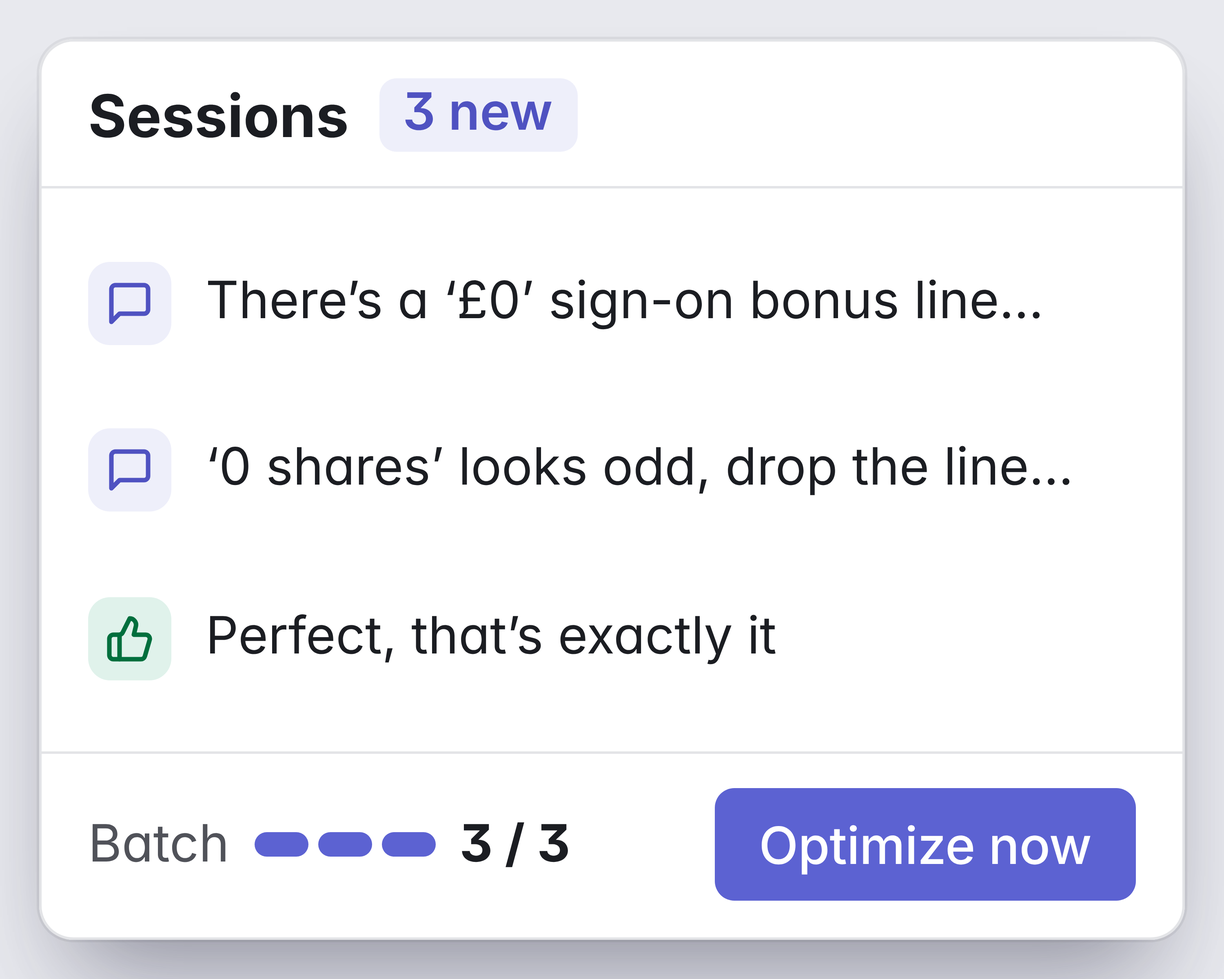
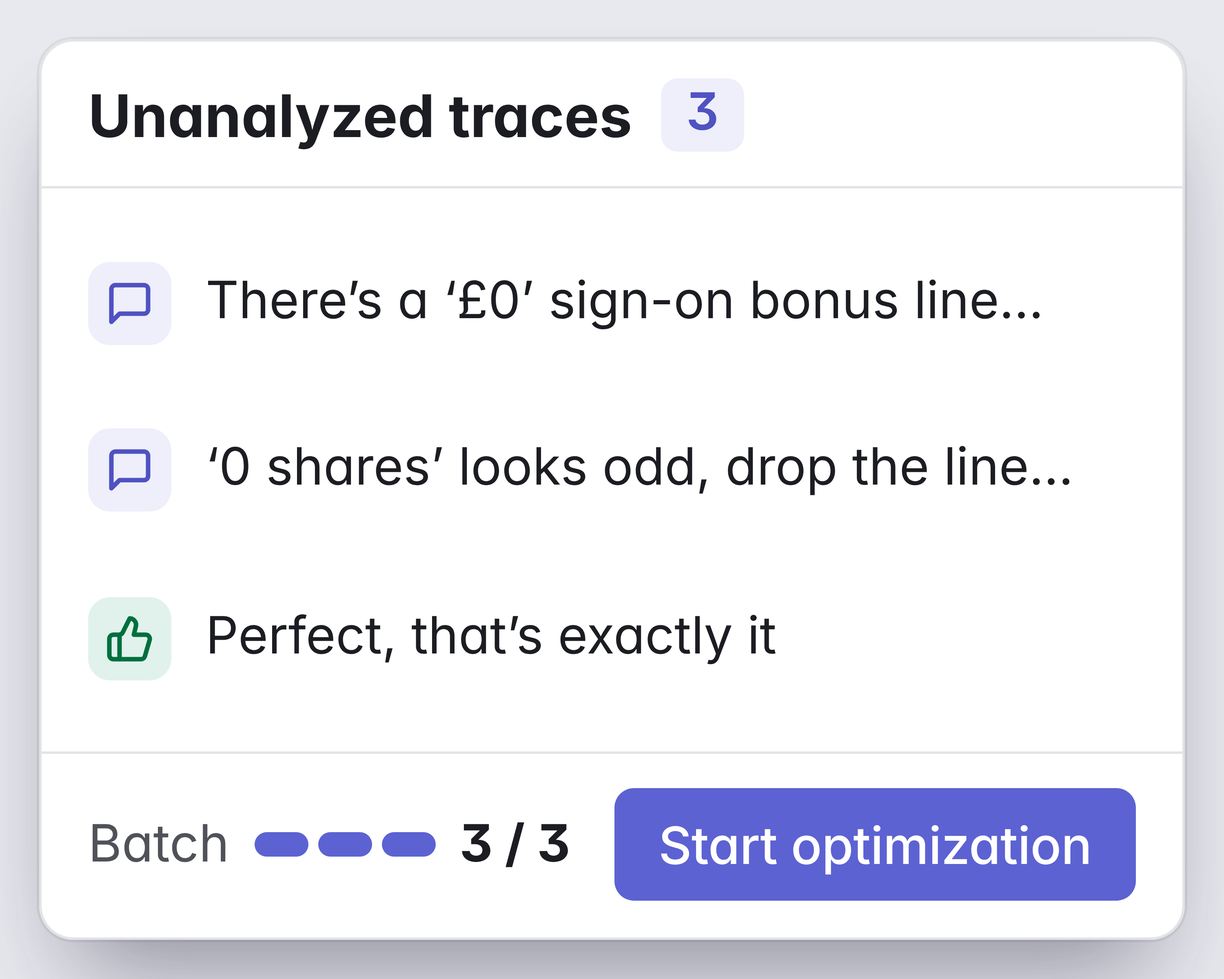
Poster: match the pipeline and workflow to the paper and the UI
Diagram: add the agent's local AGENTS.md copy fed by the fetch before
each session, drop the invented arrow from the published file to the
batch, and complete the node texts (unanalyzed traces and user-set batch
size, same reviewer prompt, judges asking follow-ups, the review report's
hypotheses and unresolved questions, the experience history's fields,
anchored edits, propose-only re-run on rejection). Use the paper's
survival rule. Workflow: use the dashboard's Start optimization and
auto-optimization, mention the verifier, and replace invented Compare and
Roll back actions with the Versions view's Set as current and New branch.

Changed region(s): [[0.496, 0.7812, 0.899, 0.9375], [0.062, 0.0938, 0.527, 0.1562], [0.558, 0.0938, 0.589, 0.1562]]

diff --git a/poster/index.html b/poster/index.html
@@ -236,7 +236,7 @@ h2 { font-family: var(--display); font-size: 18mm; line-height: 1.06; font-weigh
     </div>
   </div>
   <p class="cap"><b>Table I.</b> Task success, %, GPT-5.4-mini target model. <i class="sw hone"></i>Hone <i class="sw agent"></i>unoptimized agent <i class="sw opt"></i>skill optimizer (re-runs tasks with a verifier). The Pi agent is Hone's starting configuration; only AGENTS.md differs.</p>
-  <p class="cap"><b>Setup.</b> Each task ran once; Hone saw its trace and feedback from the answer key (“Expected … Got …”), never a re-run. OfficeQA: 200 tasks, 5 batches of 40; final file scored once.</p>
+  <p class="cap"><b>Setup.</b> Hone saw only traces and per-task feedback (“Expected … Got …”); no task re-run to score an edit. OfficeQA: 200 tasks, 5 batches of 40; final file scored once.</p>
 </section>
 
 
@@ -282,22 +282,23 @@ h2 { font-family: var(--display); font-size: 18mm; line-height: 1.06; font-weigh
     <rect x="166" y="6" width="100" height="114" rx="3" fill="#ffffff" stroke="#1a1c21" stroke-width="0.6" stroke-dasharray="3 2"/>
     <use href="#i-pkg" x="207" y="14" width="18" height="18" style="color:#565b66"/>
     <text x="216" y="50" font-size="11" font-weight="700" text-anchor="middle">Frozen batch</text>
-    <text x="216" y="67" font-size="9" fill="#565b66" text-anchor="middle">n traces,</text>
-    <text x="216" y="79" font-size="9" fill="#565b66" text-anchor="middle">fixed for</text>
-    <text x="216" y="91" font-size="9" fill="#565b66" text-anchor="middle">the whole run</text>
+    <text x="216" y="67" font-size="9" fill="#565b66" text-anchor="middle">unanalyzed traces,</text>
+    <text x="216" y="79" font-size="9" fill="#565b66" text-anchor="middle">size set by the user,</text>
+    <text x="216" y="91" font-size="9" fill="#565b66" text-anchor="middle">fixed for the run</text>
 
     <line x1="266" y1="62" x2="286" y2="62" stroke="#1a1c21" stroke-width="0.7" marker-end="url(#a-ink)"/>
     <rect x="288" y="30" width="90" height="64" rx="3" fill="#ffffff" stroke="#1a1c21" stroke-width="0.7"/>
     <use href="#i-code" x="295" y="36" width="11" height="11" style="color:#565b66"/>
-    <text x="333" y="60" font-size="10.5" font-weight="700" text-anchor="middle">Evidence</text>
-    <text x="333" y="73" font-size="10.5" font-weight="700" text-anchor="middle">compiler</text>
-    <text x="333" y="88" font-size="9" fill="#565b66" text-anchor="middle">deterministic</text>
+    <text x="333" y="56" font-size="10.5" font-weight="700" text-anchor="middle">Evidence</text>
+    <text x="333" y="68" font-size="10.5" font-weight="700" text-anchor="middle">compiler</text>
+    <text x="333" y="80" font-size="9" fill="#565b66" text-anchor="middle">deterministic,</text>
+    <text x="333" y="90" font-size="9" fill="#565b66" text-anchor="middle">tool-call signals</text>
     <use href="#mine" x="378" y="30"/><text x="378" y="33.45" font-size="9.6" font-weight="700" fill="#fff" text-anchor="middle">1</text>
 
     <!-- ===== REVIEW ===== -->
     <rect x="394" y="0" width="268" height="140" rx="5" fill="#e2e5fb" stroke="#3540a6" stroke-width="0.8"/>
     <text x="405" y="17" font-size="11" font-weight="700" fill="#3540a6">Review</text>
-    <text x="458" y="17" font-size="9" fill="#3540a6">3 reviewers, different LLMs</text>
+    <text x="458" y="17" font-size="9" fill="#3540a6">3 reviewers, different LLMs, same prompt</text>
 
     <line x1="378" y1="62" x2="399" y2="62" stroke="#1a1c21" stroke-width="0.7"/>
     <path d="M399 39 V109" fill="none" stroke="#1a1c21" stroke-width="0.7"/>
@@ -327,18 +328,19 @@ h2 { font-family: var(--display); font-size: 18mm; line-height: 1.06; font-weigh
     <use href="#i-scale" x="593" y="32" width="16" height="16" style="color:#3540a6"/>
     <text x="601" y="63" font-size="11" font-weight="700" text-anchor="middle" fill="#1f2b55">Review judge</text>
     <text x="601" y="80" font-size="9" text-anchor="middle" fill="#565b66">cross-examines,</text>
-    <text x="601" y="92" font-size="9" text-anchor="middle" fill="#565b66">writes the</text>
-    <text x="601" y="104" font-size="9" text-anchor="middle" fill="#565b66">consensus</text>
+    <text x="601" y="92" font-size="9" text-anchor="middle" fill="#565b66">asks follow-ups,</text>
+    <text x="601" y="104" font-size="9" text-anchor="middle" fill="#565b66">writes consensus</text>
     <use href="#mine" x="654" y="26"/><text x="654" y="29.45" font-size="9.6" font-weight="700" fill="#fff" text-anchor="middle">3</text>
     <text x="405" y="136" font-size="9" font-style="italic" fill="#3540a6">↔ the judge re-queries the reviewers</text>
 
     <line x1="654" y1="74" x2="683" y2="74" stroke="#1a1c21" stroke-width="0.7" marker-end="url(#a-ink)"/>
     <rect x="685" y="34" width="135" height="80" rx="3" fill="#fff" stroke="#3540a6" stroke-width="1.1"/>
     <use href="#i-file" x="694" y="43" width="13" height="13" style="color:#3540a6"/>
-    <text x="712" y="54" font-size="11" font-weight="700" fill="#1f2b55">Consensus review</text>
-    <text x="694" y="74" font-size="9" fill="#565b66">findings, confidence,</text>
-    <text x="694" y="87" font-size="9" fill="#565b66">linked traces,</text>
-    <text x="694" y="100" font-size="9" fill="#565b66">open questions</text>
+    <text x="712" y="52" font-size="11" font-weight="700" fill="#1f2b55">Review report</text>
+    <text x="694" y="68" font-size="9" fill="#565b66">findings, hypotheses</text>
+    <text x="694" y="80" font-size="9" fill="#565b66">with confidence,</text>
+    <text x="694" y="92" font-size="9" fill="#565b66">linked traces,</text>
+    <text x="694" y="104" font-size="9" fill="#565b66">unresolved questions</text>
 
     <text x="746" y="148" font-size="9" fill="#565b66" text-anchor="end">both stages run as</text>
     <text x="746" y="160" font-size="9" fill="#565b66" text-anchor="end">sandboxed jobs</text>
@@ -375,23 +377,24 @@ h2 { font-family: var(--display); font-size: 18mm; line-height: 1.06; font-weigh
     <use href="#i-scale" x="449" y="203" width="16" height="16" style="color:#3540a6"/>
     <text x="457" y="233" font-size="11" font-weight="700" text-anchor="middle" fill="#1f2b55">Propose judge</text>
     <text x="457" y="250" font-size="9" text-anchor="middle" fill="#565b66">cross-examines,</text>
-    <text x="457" y="262" font-size="9" text-anchor="middle" fill="#565b66">fuses one</text>
-    <text x="457" y="274" font-size="9" text-anchor="middle" fill="#565b66">edit set</text>
+    <text x="457" y="262" font-size="9" text-anchor="middle" fill="#565b66">asks follow-ups,</text>
+    <text x="457" y="274" font-size="9" text-anchor="middle" fill="#565b66">fuses one edit set</text>
     <use href="#mine" x="404" y="198"/><text x="404" y="201.45" font-size="9.6" font-weight="700" fill="#fff" text-anchor="middle">3</text>
 
     <line x1="457" y1="286" x2="457" y2="292" stroke="#1a1c21" stroke-width="0.7" marker-end="url(#a-ink)"/>
     <rect x="404" y="293" width="246" height="23" rx="3" fill="#fff" stroke="#3540a6" stroke-width="1.1"/>
     <use href="#i-file" x="411" y="298.5" width="12" height="12" style="color:#3540a6"/>
     <text x="428" y="308.3" font-size="11" font-weight="700" fill="#1f2b55">Edit set</text>
-    <text x="482" y="308.3" font-size="9" fill="#565b66">edits + commit message</text>
+    <text x="482" y="308.3" font-size="9" fill="#565b66">anchored edits + commit message</text>
 
     <!-- experience memory -->
     <rect x="685" y="206" width="135" height="76" rx="3" fill="#ffffff" stroke="#1a1c21" stroke-width="0.6" stroke-dasharray="3 2"/>
     <use href="#i-db" x="694" y="214" width="13" height="13" style="color:#565b66"/>
-    <text x="712" y="225" font-size="11" font-weight="700">Experience</text>
-    <text x="694" y="240" font-size="11" font-weight="700">memory</text>
-    <text x="694" y="258" font-size="9" fill="#565b66">past edits, rationale</text>
-    <text x="694" y="270" font-size="9" fill="#565b66">and outcomes</text>
+    <text x="712" y="224" font-size="11" font-weight="700">Experience</text>
+    <text x="694" y="238" font-size="11" font-weight="700">memory</text>
+    <text x="694" y="253" font-size="9" fill="#565b66">every past decision:</text>
+    <text x="694" y="264" font-size="9" fill="#565b66">edit, commit message,</text>
+    <text x="694" y="275" font-size="9" fill="#565b66">rationale, outcome</text>
     <line x1="685" y1="262" x2="653" y2="262" stroke="#7d7a73" stroke-width="0.7" stroke-dasharray="3 2"/>
 
     <!-- ===== verify, commit, publish ===== -->
@@ -405,7 +408,7 @@ h2 { font-family: var(--display); font-size: 18mm; line-height: 1.06; font-weigh
     <text x="324" y="309" font-size="9" text-anchor="middle" fill="#565b66">is in the batch</text>
 
     <path d="M324 220 V158 H470 V168" fill="none" stroke="#b0302f" stroke-width="0.8" stroke-dasharray="4 2.4" marker-end="url(#a-rej)"/>
-    <text x="330" y="153" font-size="9" font-style="italic" fill="#b0302f">rejected: propose again, review reused</text>
+    <text x="330" y="153" font-size="9" font-style="italic" fill="#b0302f">rejected: only propose re-runs, with the rejection; review reused</text>
 
     <line x1="270" y1="268" x2="249" y2="268" stroke="#1a1c21" stroke-width="0.7" marker-end="url(#a-ink)"/>
     <text x="259.5" y="262" font-size="9" font-weight="700" fill="#3540a6" text-anchor="middle">✓</text>
@@ -421,26 +424,27 @@ h2 { font-family: var(--display); font-size: 18mm; line-height: 1.06; font-weigh
     <use href="#i-file" x="10" y="229" width="15" height="15" style="color:#4653c9"/>
     <text x="10" y="261" font-size="11" font-weight="700">Published</text>
     <text x="10" y="276" font-family="JetBrains Mono" font-size="11" font-weight="700" fill="#3540a6">AGENTS.md</text>
-    <text x="10" y="294" font-size="9" fill="#565b66">every version kept:</text>
-    <text x="10" y="306" font-size="9" fill="#565b66">diff it, branch from it</text>
+    <text x="10" y="294" font-size="9" fill="#565b66">every version in Git;</text>
+    <text x="10" y="306" font-size="9" fill="#565b66">branch from any one</text>
 
     <!-- loop back to the agent -->
-    <line x1="40" y1="220" x2="40" y2="122" stroke="#4653c9" stroke-width="1.1" marker-end="url(#a-acc)"/>
-    <text x="47" y="150" font-size="9" fill="#3540a6" font-weight="600">the agent syncs</text>
-    <text x="47" y="162" font-size="9" fill="#3540a6" font-weight="600">the latest file</text>
-    <text x="47" y="174" font-size="9" fill="#3540a6" font-weight="600">before every session</text>
-    <path d="M118 220 V200 H216 V122" fill="none" stroke="#7d7a73" stroke-width="0.7" stroke-dasharray="3 2" marker-end="url(#a-gray)"/>
-    <text x="222" y="186" font-size="9" fill="#565b66">the latest file</text>
-    <text x="222" y="198" font-size="9" fill="#565b66">feeds the run</text>
+    <line x1="40" y1="220" x2="40" y2="194" stroke="#4653c9" stroke-width="1.1" marker-end="url(#a-acc)"/>
+    <text x="47" y="212" font-size="9" fill="#3540a6" font-weight="600">fetch latest before each session</text>
+    <rect x="0" y="146" width="140" height="46" rx="3" fill="#ffffff" stroke="#1a1c21" stroke-width="0.6" stroke-dasharray="3 2"/>
+    <use href="#i-file" x="9" y="153" width="13" height="13" style="color:#565b66"/>
+    <text x="29" y="164" font-family="JetBrains Mono" font-size="10.5" font-weight="700">AGENTS.md</text>
+    <text x="29" y="181" font-size="9" fill="#565b66">the agent's copy</text>
+    <line x1="40" y1="146" x2="40" y2="124" stroke="#1a1c21" stroke-width="0.7" marker-end="url(#a-ink)"/>
+    <text x="47" y="138" font-size="9" fill="#565b66">loaded into every session</text>
 
     <!-- experience update -->
     <path d="M199 316 V330 H752 V284" fill="none" stroke="#7d7a73" stroke-width="0.7" stroke-dasharray="3 2" marker-end="url(#a-gray)"/>
-    <text x="759" y="300" font-size="9" fill="#565b66">every edit and</text>
-    <text x="759" y="312" font-size="9" fill="#565b66">its outcome</text>
-    <text x="759" y="324" font-size="9" fill="#565b66">is logged</text>
+    <text x="759" y="300" font-size="9" fill="#565b66">experience</text>
+    <text x="759" y="312" font-size="9" fill="#565b66">update after</text>
+    <text x="759" y="324" font-size="9" fill="#565b66">each commit</text>
   </svg>
   <div class="minepts">
-    <p class="lead">A finding survives only if it is grounded in the traces and holds up when the judge questions models that disagree.</p>
+    <p class="lead">A hypothesis survives only if it recurs in the batch and holds up under cross-examination.</p>
     <p><i><span>1</span></i><b>Process signals:</b> a compiler extracts evidence from tool-call sequences.</p>
     <p><i><span>2</span></i><b>Behavior patterns:</b> repeated errors, inefficient tool sequences, format violations.</p>
     <p><i><span>3</span></i><b>Decisions:</b> judges turn the analyses into a review, then one edit set.</p>
@@ -452,14 +456,14 @@ h2 { font-family: var(--display); font-size: 18mm; line-height: 1.06; font-weigh
   <div class="stills r1">
     <figure class="shot s1"><div class="win"><img src="assets/stills/s1-feedback.png" data-src-w="3080" data-stage-w="440" data-min-px="23" alt="Feedback box under the agent's reply"></div><figcaption><span class="n">1</span><span>You use the agent and comment when something is off</span></figcaption></figure>
     <svg class="sar" viewBox="0 0 30 40" fill="none" stroke="#a9b2ff" stroke-width="3.2" stroke-linecap="round" stroke-linejoin="round"><path d="M3 20 H25 M16 9 L26 20 L16 31"/></svg>
-    <figure class="shot s2"><div class="win"><img src="assets/stills/s1b-batch.png" data-src-w="3000" data-stage-w="500" data-min-px="21" alt="Hone dashboard: three new sessions with feedback fill the batch; Optimize now"></div><figcaption><span class="n">2</span><span>Finished sessions fill a batch; you start a run</span></figcaption></figure>
+    <figure class="shot s2"><div class="win"><img src="assets/stills/s1b-batch.png" data-src-w="3000" data-stage-w="500" data-min-px="21" alt="Hone dashboard: unanalyzed traces with their feedback fill the batch; Start optimization"></div><figcaption><span class="n">2</span><span>Traces fill a batch; you start optimization or turn on auto</span></figcaption></figure>
     <svg class="sar" viewBox="0 0 30 40" fill="none" stroke="#a9b2ff" stroke-width="3.2" stroke-linecap="round" stroke-linejoin="round"><path d="M3 20 H25 M16 9 L26 20 L16 31"/></svg>
-    <figure class="shot s3"><div class="win"><img src="assets/stills/s2-crossexam.png" data-src-w="3200" data-stage-w="640" data-min-px="20" alt="Review stage: the judge asks two reviewers a follow-up; one withdraws its claim"></div><figcaption><span class="n">3</span><span>Reviewers and a judge cross-examine</span></figcaption></figure>
+    <figure class="shot s3"><div class="win"><img src="assets/stills/s2-crossexam.png" data-src-w="3200" data-stage-w="640" data-min-px="20" alt="Review stage: the judge asks two reviewers a follow-up; one withdraws its claim"></div><figcaption><span class="n">3</span><span>Review, then propose: each panel is cross-examined by its judge</span></figcaption></figure>
   </div>
   <div class="stills r2">
-    <figure class="shot s4"><div class="win"><img src="assets/stills/s3b-commit.png" data-src-w="4680" data-stage-w="780" data-min-px="21" alt="The verified commit: the judge's commit message and the diff to AGENTS.md"></div><figcaption><span class="n">4</span><span>A verified edit with the judge’s commit message</span></figcaption></figure>
+    <figure class="shot s4"><div class="win"><img src="assets/stills/s3b-commit.png" data-src-w="4680" data-stage-w="780" data-min-px="21" alt="The verified commit: the judge's commit message and the diff to AGENTS.md"></div><figcaption><span class="n">4</span><span>The verifier checks every edit; the judge writes the commit message</span></figcaption></figure>
     <svg class="sar" viewBox="0 0 30 40" fill="none" stroke="#a9b2ff" stroke-width="3.2" stroke-linecap="round" stroke-linejoin="round"><path d="M3 20 H25 M16 9 L26 20 L16 31"/></svg>
-    <figure class="shot s5"><div class="win"><img src="assets/stills/s4-versions.png" data-src-w="3120" data-stage-w="520" data-min-px="19" alt="AGENTS.md version history with Compare and Roll back"></div><figcaption><span class="n">5</span><span>The next session uses the new file; any version can be compared or rolled back</span></figcaption></figure>
+    <figure class="shot s5"><div class="win"><img src="assets/stills/s4-versions.png" data-src-w="3600" data-stage-w="600" data-min-px="19" alt="AGENTS.md versions: the current one, Set as current and New branch on an older one"></div><figcaption><span class="n">5</span><span>The agent fetches it before its next session; any version can be set as current or branched</span></figcaption></figure>
   </div>
 </section>
 

diff --git a/poster/tools/body.html b/poster/tools/body.html
@@ -25,7 +25,7 @@
   <h2>Reviewers disagree, a judge cross-examines, a verifier gates every edit.</h2>
   @@SVG@@
   <div class="minepts">
-    <p class="lead">A finding survives only if it is grounded in the traces and holds up when the judge questions models that disagree.</p>
+    <p class="lead">A hypothesis survives only if it recurs in the batch and holds up under cross-examination.</p>
     <p><i><span>1</span></i><b>Process signals:</b> a compiler extracts evidence from tool-call sequences.</p>
     <p><i><span>2</span></i><b>Behavior patterns:</b> repeated errors, inefficient tool sequences, format violations.</p>
     <p><i><span>3</span></i><b>Decisions:</b> judges turn the analyses into a review, then one edit set.</p>
@@ -37,14 +37,14 @@
   <div class="stills r1">
     <figure class="shot s1"><div class="win"><img src="assets/stills/s1-feedback.png" data-src-w="3080" data-stage-w="440" data-min-px="23" alt="Feedback box under the agent's reply"></div><figcaption><span class="n">1</span><span>You use the agent and comment when something is off</span></figcaption></figure>
     <svg class="sar" viewBox="0 0 30 40" fill="none" stroke="#a9b2ff" stroke-width="3.2" stroke-linecap="round" stroke-linejoin="round"><path d="M3 20 H25 M16 9 L26 20 L16 31"/></svg>
-    <figure class="shot s2"><div class="win"><img src="assets/stills/s1b-batch.png" data-src-w="3000" data-stage-w="500" data-min-px="21" alt="Hone dashboard: three new sessions with feedback fill the batch; Optimize now"></div><figcaption><span class="n">2</span><span>Finished sessions fill a batch; you start a run</span></figcaption></figure>
+    <figure class="shot s2"><div class="win"><img src="assets/stills/s1b-batch.png" data-src-w="3000" data-stage-w="500" data-min-px="21" alt="Hone dashboard: unanalyzed traces with their feedback fill the batch; Start optimization"></div><figcaption><span class="n">2</span><span>Traces fill a batch; you start optimization or turn on auto</span></figcaption></figure>
     <svg class="sar" viewBox="0 0 30 40" fill="none" stroke="#a9b2ff" stroke-width="3.2" stroke-linecap="round" stroke-linejoin="round"><path d="M3 20 H25 M16 9 L26 20 L16 31"/></svg>
-    <figure class="shot s3"><div class="win"><img src="assets/stills/s2-crossexam.png" data-src-w="3200" data-stage-w="640" data-min-px="20" alt="Review stage: the judge asks two reviewers a follow-up; one withdraws its claim"></div><figcaption><span class="n">3</span><span>Reviewers and a judge cross-examine</span></figcaption></figure>
+    <figure class="shot s3"><div class="win"><img src="assets/stills/s2-crossexam.png" data-src-w="3200" data-stage-w="640" data-min-px="20" alt="Review stage: the judge asks two reviewers a follow-up; one withdraws its claim"></div><figcaption><span class="n">3</span><span>Review, then propose: each panel is cross-examined by its judge</span></figcaption></figure>
   </div>
   <div class="stills r2">
-    <figure class="shot s4"><div class="win"><img src="assets/stills/s3b-commit.png" data-src-w="4680" data-stage-w="780" data-min-px="21" alt="The verified commit: the judge's commit message and the diff to AGENTS.md"></div><figcaption><span class="n">4</span><span>A verified edit with the judge’s commit message</span></figcaption></figure>
+    <figure class="shot s4"><div class="win"><img src="assets/stills/s3b-commit.png" data-src-w="4680" data-stage-w="780" data-min-px="21" alt="The verified commit: the judge's commit message and the diff to AGENTS.md"></div><figcaption><span class="n">4</span><span>The verifier checks every edit; the judge writes the commit message</span></figcaption></figure>
     <svg class="sar" viewBox="0 0 30 40" fill="none" stroke="#a9b2ff" stroke-width="3.2" stroke-linecap="round" stroke-linejoin="round"><path d="M3 20 H25 M16 9 L26 20 L16 31"/></svg>
-    <figure class="shot s5"><div class="win"><img src="assets/stills/s4-versions.png" data-src-w="3120" data-stage-w="520" data-min-px="19" alt="AGENTS.md version history with Compare and Roll back"></div><figcaption><span class="n">5</span><span>The next session uses the new file; any version can be compared or rolled back</span></figcaption></figure>
+    <figure class="shot s5"><div class="win"><img src="assets/stills/s4-versions.png" data-src-w="3600" data-stage-w="600" data-min-px="19" alt="AGENTS.md versions: the current one, Set as current and New branch on an older one"></div><figcaption><span class="n">5</span><span>The agent fetches it before its next session; any version can be set as current or branched</span></figcaption></figure>
   </div>
 </section>
 

diff --git a/poster/tools/stageshow/fin-s5/index.tsx b/poster/tools/stageshow/fin-s5/index.tsx
@@ -9,19 +9,19 @@ import './s5.css'
 
 type V = { title: string; meta?: string; inUse?: boolean; hover?: boolean; first?: boolean }
 const VERSIONS: V[] = [
-  { title: 'fix: drop £0 lines', meta: '1 edit · verified', inUse: true },
-  { title: 'fix: keep bold', meta: '2 edits · verified', hover: true },
+  { title: 'fix: drop £0 lines', inUse: true },
+  { title: 'fix: keep bold', hover: true },
   { title: 'feat: first four rules', first: true },
 ]
 
 export default function FinS5() {
   return (
-    <Stage width={520} height={230} className="hone s5">
+    <Stage width={600} height={230} className="hone s5">
       {() => (
         <div className="s5-card">
           <div className="s5-head">
             <span className="s5-id mono">AGENTS.md</span>
-            <span className="s5-sub">version history</span>
+            <span className="s5-sub">versions</span>
           </div>
           <div className="s5-list">
             {VERSIONS.map((v, i) => (
@@ -31,11 +31,11 @@ export default function FinS5() {
                   {v.first ? <Bar w={260} h={11} r={5.5} tone={2} /> : <span className="s5-title mono">{v.title}</span>}
                   {v.meta && <span className="s5-meta">{v.meta}</span>}
                 </div>
-                {v.inUse && <span className="s5-tag">in use</span>}
+                {v.inUse && <span className="s5-tag">current</span>}
                 {v.hover && (
                   <div className="s5-actions">
-                    <Button size="large">Compare</Button>
-                    <Button size="large">Roll back</Button>
+                    <Button size="large">Set as current</Button>
+                    <Button size="large">New branch</Button>
                   </div>
                 )}
               </div>

diff --git a/poster/tools/stageshow/fin-d1/index.tsx b/poster/tools/stageshow/fin-d1/index.tsx
@@ -20,8 +20,8 @@ export default function FinD1() {
       {() => (
         <div className="d1-card">
           <div className="d1-head">
-            <span className="d1-h">Sessions</span>
-            <span className="d1-new">3 new</span>
+            <span className="d1-h">Unanalyzed traces</span>
+            <span className="d1-new">3</span>
           </div>
           <div className="d1-list">
             {SESSIONS.map((s, i) => (
@@ -39,7 +39,7 @@ export default function FinD1() {
               <span className="d1-meter"><i /><i /><i /></span>
               <span className="d1-bn">3 / 3</span>
             </div>
-            <Button variant="primary" size="large">Optimize now</Button>
+            <Button variant="primary" size="large">Start optimization</Button>
           </div>
         </div>
       )}

diff --git a/poster/tools/stageshow/fin-s5/s5.css b/poster/tools/stageshow/fin-s5/s5.css
@@ -8,7 +8,7 @@
   .s5-id { font-size: 22px; font-weight: 600; color: var(--ss-text-strong); }
   .s5-sub { font-size: 20px; color: var(--ss-text); }
   .s5-list { padding: 4px 0; }
-  .s5-row { position: relative; display: flex; align-items: center; gap: 12px; height: 58px; padding: 0 14px 0 50px; }
+  .s5-row { position: relative; display: flex; align-items: center; gap: 12px; height: 54px; padding: 0 14px 0 50px; }
   .s5-row[data-hover] { background: var(--ss-accent-soft); }
   .s5-node { position: absolute; left: 24px; top: 0; bottom: 0; width: 0; border-left: 2px solid var(--h-line-2); }
   .s5-node[data-top] { top: 50%; }

diff --git a/poster/tools/build.py b/poster/tools/build.py
@@ -38,7 +38,7 @@ HERO = f'''<section class="hero">
 {half('SpreadsheetBench', '<p class="s2">+1.9 over SkillOpt</p>')}
   </div>
   <p class="cap"><b>Table I.</b> Task success, %, GPT-5.4-mini target model. <i class="sw hone"></i>Hone <i class="sw agent"></i>unoptimized agent <i class="sw opt"></i>skill optimizer (re-runs tasks with a verifier). The Pi agent is Hone's starting configuration; only AGENTS.md differs.</p>
-  <p class="cap"><b>Setup.</b> Each task ran once; Hone saw its trace and feedback from the answer key (“Expected … Got …”), never a re-run. OfficeQA: 200 tasks, 5 batches of 40; final file scored once.</p>
+  <p class="cap"><b>Setup.</b> Hone saw only traces and per-task feedback (“Expected … Got …”); no task re-run to score an edit. OfficeQA: 200 tasks, 5 batches of 40; final file scored once.</p>
 </section>'''
 
 BATCHES = [(1, 2, 3, 4), (5, 6, 7, 8), (9, 10), (11, 12, 13)]
